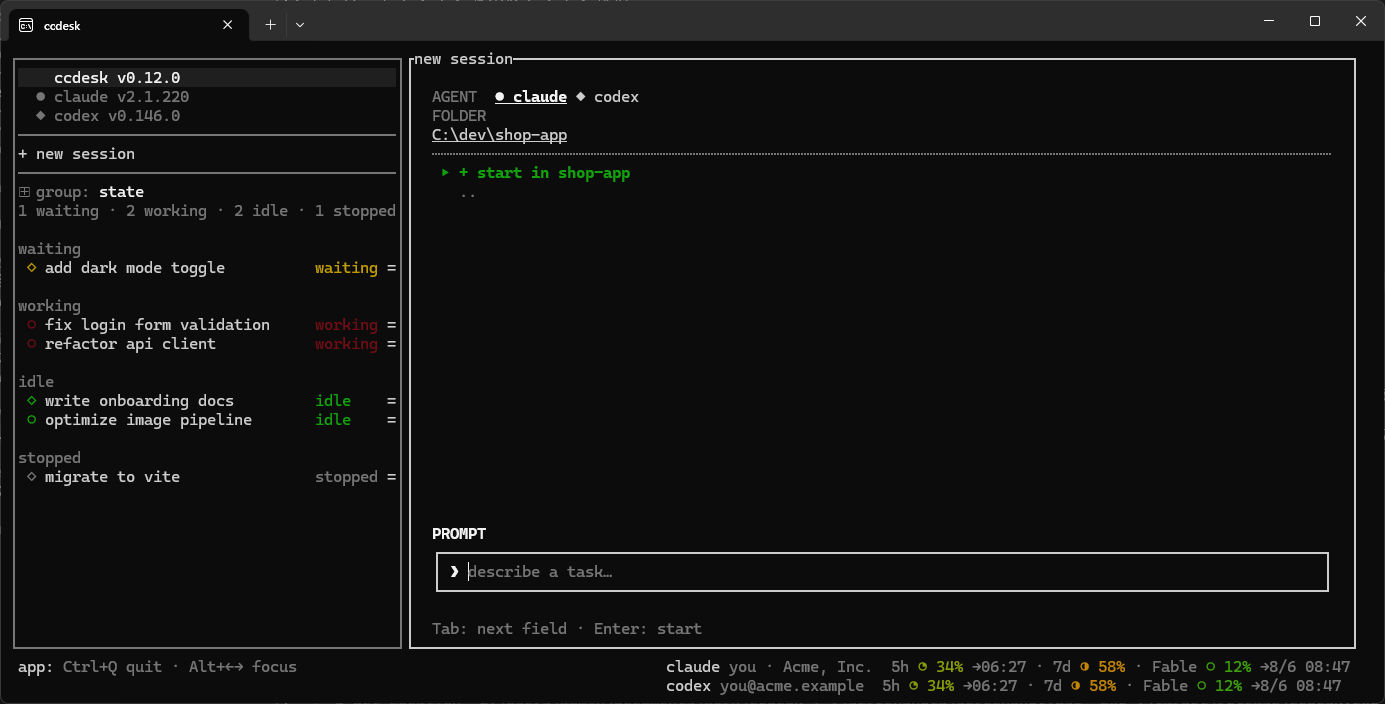
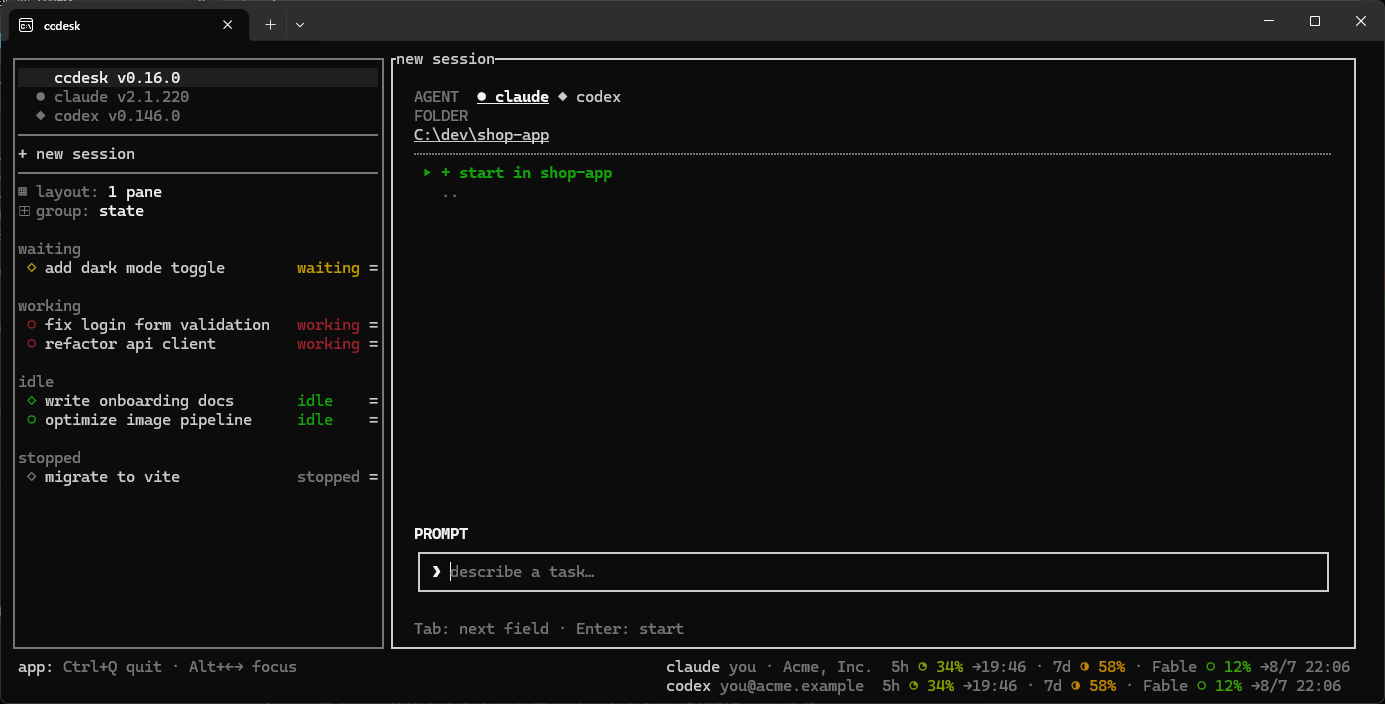
feat: サイドバーの状態別件数行を撤去
件数は節の見出しの下に並ぶ行そのもので見えており、ヘッダーに同じ知識を
もう 1 本置くと幅を食うだけだった。撮影用サイドバー幅の下限も集計行から
セッション行の側へ戻る（44 → 42 桁）。

diff --git a/src/ui/mod.rs b/src/ui/mod.rs
@@ -1455,14 +1455,8 @@ pub(crate) fn draw(frame: &mut Frame, app: &mut App) -> FrameCursor {
             pinned: row.pinned,
         });
     }
-    // 集計は表示行そのものから数える（分岐の複製をしない = 行数と必ず一致）。
-    // **節と同じ [`State::ORDER`] を回す**ので、並びと語が集計行とずれない
-    let counts: Vec<(State, usize)> = State::ORDER
-        .iter()
-        .map(|group| (*group, data.iter().filter(|d| d.group == *group).count()))
-        .collect();
     // 何か動いているか（run ループがアイドル時の描き直し間隔を選ぶ材料。
-    // [`crate::app::App::animating`]）。材料は 2 つ: 明滅する行（集計と同じ表示行から
+    // [`crate::app::App::animating`]）。材料は 2 つ: 明滅する行（表示行そのものから
     // 導く。[`State::blinks`]）と、使用率の取得中スピナー
     app.animating = data.iter().any(|d| d.group.blinks())
         || app
@@ -1557,27 +1551,9 @@ pub(crate) fn draw(frame: &mut Frame, app: &mut App) -> FrameCursor {
         Style::default().fg(ui().dim),
         SidebarRow::Action(RowAction::ToggleGroup),
     );
-    // 集計行。**語は [`State::title`] をそのまま出す**（唯一の綴り）ので、
-    // 見出し・行ラベル・集計で別の語が出ることがない。綴りが小文字になった今、
-    // ここで大小を変換する必要は無くなった（変換が残っていると「同じ語の 2 つ目の姿」を
-    // この行だけが持ち続けることになる）。
+    // **状態ごとの件数は出さない。** 数は節の見出しの下に並ぶ行そのもので見えており、
+    // 同じ知識をヘッダーにもう 1 本置くと幅を食うだけだった。
     //
-    // **0 件の項目は出さない。** 語が 4 つになって行が長くなったので、
-    // `0 stopped` のような情報を持たない項目で幅を使わない（1 本も無ければ空行）
-    push_row(
-        &mut items,
-        &mut rows,
-        Line::from(
-            counts
-                .iter()
-                .filter(|(_, n)| *n > 0)
-                .map(|(group, n)| format!("{n} {}", group.title()))
-                .collect::<Vec<_>>()
-                .join(" · "),
-        ),
-        Style::default().fg(ui().dim),
-        SidebarRow::Decoration,
-    );
     // ここまでが固定ヘッダー。積んだ数をそのまま正本にする
     // （ヒットテストとスクロール計算が読む。定数と二重管理にしない）
     let header_n = rows.len();
@@ -3457,9 +3433,6 @@ pub(crate) mod tests {
             !screen.iter().any(|t| t.contains("hidden")),
             "the codex session row is still listed: {screen:?}"
         );
-        let texts = sidebar_texts(&mut app);
-        // 集計もその 1 本だけ（隠した行が数に残らない）
-        assert_eq!(summary_row(&texts), "1 stopped", "the hidden row was still counted");
         // 下部バーは agent 1 行ぶん ＝ 空行がペインを削らない
         assert_eq!(bottom_bar_rows(&app), 1);
         // **行は消えていない**（`sessions.json` は触らない ＝ on に戻せば戻る）
@@ -3569,20 +3542,6 @@ pub(crate) mod tests {
         render_sidebar(app).into_iter().map(|(_, t)| t).collect()
     }
 
-    /// 集計行を探す。**語で探さない**（語を変えるたびにテストを直す形にしない）:
-    /// 集計行は「数字 + 空白 + 語」で始まる唯一の行
-    fn summary_row(texts: &[String]) -> String {
-        texts
-            .iter()
-            .find(|t| {
-                let mut chars = t.chars();
-                chars.next().is_some_and(|c| c.is_ascii_digit())
-                    && chars.next() == Some(' ')
-            })
-            .expect("the summary row is missing")
-            .clone()
-    }
-
     /// **行の並びは「名前 → 状態語 → メニュー記号」。**
     ///
     /// **agent は行末に居ない**（ドットの形が答えるので綴りで桁を食わない）。
@@ -3679,7 +3638,7 @@ pub(crate) mod tests {
         }
     }
 
-    /// **止めた行は `Stopped`（行末の語も集計も Stopped）。**
+    /// **止めた行は `Stopped`（行末の語も Stopped）。**
     ///
     /// 実機では `stop` の直後に一瞬 `Stopped` になってから `Needs input` へ戻っていた
     /// （保管に残った停止前の hook が載り直していた）。**残骸の hook を持っていても**
@@ -3714,13 +3673,6 @@ pub(crate) mod tests {
         // 既読なのでドットは抜き（塗りのままでは未読の入力待ちと見紛う）
         assert!(line.starts_with(&format!("{CLOSED_MARK}{DOT_HOLLOW}")), "{line:?}");
         assert_eq!(dot, ui().dim, "a dead row does not use the Stopped color");
-        // 集計もその 1 本を Stopped として数える（0 件の項目は出さない）
-        let texts = sidebar_texts(&mut app);
-        let counts = summary_row(&texts);
-        assert_eq!(
-            counts, "1 stopped",
-            "a stopped row was counted as something else"
-        );
     }
 
     /// **狭い端末はサイドバーを縮めて描くが、ユーザーが選んだ幅を忘れない。**
@@ -4226,32 +4178,14 @@ pub(crate) mod tests {
         }
     }
 
-    /// **集計は pin した行も数える。** pin は「隠す」操作ではなく「上へ寄せる」
-    /// 操作なので、数えないと一覧に見えている行と数が合わなくなる
-    #[test]
-    fn the_summary_counts_pinned_rows_too() {
-        let mut app = App {
-            // 集計行が切られない幅の端末（このテストの関心は数だけ）
-            term_size: (120, 40),
-            ..pinned_fixture(Grouping::State, true)
-        };
-        let texts = sidebar_texts(&mut app);
-        assert_eq!(
-            summary_row(&texts),
-            "3 stopped",
-            "the pinned row was not counted"
-        );
-    }
-
     /// **一覧に隠し区画は無い。** アーカイブを廃止したので、行はどちらの
-    /// グルーピングでも通常の一覧に出て集計にも数えられる（`close` が外すのは
-    /// 行だけなので、アーカイブとの差は「戻す導線があるか」しか残らず、
+    /// グルーピングでも通常の一覧に出る（`close` が外すのは行だけなので、
+    /// アーカイブとの差は「戻す導線があるか」しか残らず、
     /// 節を 1 つ増やす価値が無かった）
     #[test]
-    fn every_row_stays_in_the_normal_list_and_is_counted() {
+    fn every_row_stays_in_the_normal_list() {
         for grouping in [Grouping::State, Grouping::Directory] {
             let mut app = App {
-                // 集計行が切られない幅の端末（このテストの関心は行数と集計の一致）
                 term_size: (120, 40),
                 sidebar_width: 34,
                 grouping,
@@ -4273,12 +4207,6 @@ pub(crate) mod tests {
                     "{grouping:?}: {row} is missing from the list: {texts:?}"
                 );
             }
-            // 集計は一覧に出る行を全部数える（隠す行が無いので数と行数が一致する）
-            let counts = summary_row(&texts);
-            assert_eq!(
-                counts, "2 stopped",
-                "{grouping:?}: not every row is counted"
-            );
         }
     }
 

diff --git a/src/source.rs b/src/source.rs
@@ -46,24 +46,19 @@ const DEFAULT_SIDEBAR_WIDTH: u16 = 34;
 /// 幅が変わると同じ画像が撮れない。実測で 26 桁の保存値が拾われ、
 /// セッション名が全部切れた画像になっていた）。
 ///
-/// 内側（枠の中）に収めたいものは 2 つ。桁数は文字数ではなくセルの表示幅で数える
-/// （区切りの記号は 1 文字が 1 桁とは限らない）:
-///
-/// 1. セッション行。名前に使える桁は [`crate::ui::name_cols`] が答える
-///    （行頭・行末のメニュー・行末ブロックを引いた残り）。**手で数え直さない**ので、
-///    行の桁割りが変わればこの幅の検査も一緒に動く。[`demo_rows`] の最長は
-///    "fix login form validation"(25)
-/// 2. 集計行 `1 waiting · 2 working · 2 idle · 1 stopped` ＝ 42 桁。
-///    語の途中で切れると画像が壊れて見える
+/// 内側（枠の中）に収めたいものはセッション行 1 つ。桁数は文字数ではなくセルの
+/// 表示幅で数える（区切りの記号は 1 文字が 1 桁とは限らない）。名前に使える桁は
+/// [`crate::ui::name_cols`] が答える（行頭・行末のメニュー・行末ブロックを引いた
+/// 残り）。**手で数え直さない**ので、行の桁割りが変わればこの幅の検査も一緒に動く。
+/// [`demo_rows`] の最長は "fix login form validation"(25)。
 ///
 /// 名前が切れた画像は README の売り（行の名前が agent と一致する）を裏切るので、
-/// どちらも切らない幅を採る。右ペインを削らないようこれ以上は広げない。
-/// **今の下限は 2 の方**: agent の綴りが行末から消えて（形が答えるようになって）
-/// 名前の予算が 7 桁戻ったので、行より集計行の方が長くなった。
-/// **実データではこの幅を要求しない**（集計行は 0 件の項目を出さないので、
-/// 4 種すべてが揃っている撮影データが最も長い）。
+/// 切らない幅を採る。右ペインを削らないようこれ以上は広げない
+/// （状態ごとの件数を出すヘッダー行を撤去したので、下限は行の側だけになった）。
+/// **ちょうど収まる幅より 2 桁広い**: 最長の名前が行末の状態語と隙間なく
+/// 接すると、画像では 1 語に見えてしまう。
 /// 根拠は `demo_sidebar_width_fits_the_sidebar_rows` が固定する
-const DEMO_SIDEBAR_WIDTH: u16 = 44;
+const DEMO_SIDEBAR_WIDTH: u16 = 42;
 
 /// 撮影用の new session 画面の初期フォルダ（実フォルダを出さない）
 const DEMO_CWD: &str = "C:\\dev\\shop-app";
@@ -1219,23 +1214,13 @@ mod tests {
     fn demo_sidebar_width_fits_the_sidebar_rows() {
         use unicode_width::UnicodeWidthStr;
 
-        // 集計ヘッダー行（ui::draw が組む文面）。demo データではこの 1 通りに定まる
-        const DEMO_HEADER: &str = "1 waiting · 2 working · 2 idle · 1 stopped";
-
         let inner = usize::from(DEMO_SIDEBAR_WIDTH - 2);
         // 名前に使える桁は**描画と同じ導出**（[`crate::ui::name_cols`]）から取る。
         // 行頭とメニューだけを手で引いていた頃は、行末に状態語と agent を足しても
         // この検査が気づかず、名前が切れた画像が README に残った
         let name_cols = crate::ui::name_cols(inner as u16);
-        let mut widest = DEMO_HEADER.width();
-        let mut counts = std::collections::BTreeMap::<&str, usize>::new();
-        for (_, title, state) in demo_rows() {
-            // 固定 state を持つ行は「動いている実行がある」扱い（[`crate::ui`] の導出と同じ）
-            let view = match state {
-                Some(state) => state,
-                None => crate::poll::State::Stopped,
-            };
-            *counts.entry(view.title()).or_default() += 1;
+        let mut widest = 0;
+        for (_, title, _) in demo_rows() {
             assert!(
                 title.width() <= name_cols,
                 "{title:?} is {} cols but the name budget is {name_cols}",
@@ -1243,22 +1228,6 @@ mod tests {
             );
             widest = widest.max(inner - name_cols + title.width());
         }
-        // ヘッダー行の文面（= 上の DEMO_HEADER）が demo データと合っていること。
-        // **語も件数もここで固定する**（撮影データと集計行がずれない）
-        assert_eq!(
-            counts,
-            std::collections::BTreeMap::from([
-                (crate::poll::State::Waiting.title(), 1),
-                (crate::poll::State::Working.title(), 2),
-                (crate::poll::State::Idle.title(), 2),
-                (crate::poll::State::Stopped.title(), 1),
-            ])
-        );
-        assert!(
-            DEMO_HEADER.width() <= inner,
-            "summary header row gets truncated ({} cols / inner {inner} cols)",
-            DEMO_HEADER.width()
-        );
         // 右ペインを削らないよう、必要以上に広げない（余りは 2 桁まで）
         assert!(
             inner - widest <= 2,

diff --git a/src/poll.rs b/src/poll.rs
@@ -682,7 +682,7 @@ impl Grouping {
 /// - **保存と CLI 引数**（[`Self::as_str`] / [`Self::parse`]）: hook は
 ///   `ccdesk hook <event> <state>` として飛び、`hook-states.json` に文字列で残る
 /// - **画面**（[`Self::title`] / [`Self::color`] / [`Self::blinks`]）: 行のドット・
-///   節の見出し・集計が同じここを読む
+///   節の見出しが同じここを読む
 /// - **並び**（[`Self::ORDER`] と [`Ord`]）: 上ほどユーザーがすることがある
 ///
 /// **表示用の型を別に持たない。** かつては `State`（hook の語彙）と `State`（節）が
@@ -717,7 +717,7 @@ pub(crate) enum State {
 }
 
 impl State {
-    /// 表示順（節の並びと集計の並び）＝ [`Ord`] と同じ順。
+    /// 表示順（節の並び）＝ [`Ord`] と同じ順。
     /// **[`Self::parse`] もこれを舐める**ので、語を足したら綴りも並びも同時に効く
     pub(crate) const ORDER: [Self; 4] = [Self::Waiting, Self::Working, Self::Idle, Self::Stopped];
 
@@ -738,10 +738,10 @@ impl State {
         Self::ORDER.into_iter().find(|state| state.as_str() == text)
     }
 
-    /// **この 4 語が画面に出る唯一の綴り**（行ラベル・節の見出し・集計）。
+    /// **この 4 語が画面に出る唯一の綴り**（行ラベル・節の見出し）。
     ///
-    /// **小文字なのは、出る 3 箇所を 1 つの綴りで賄うため。** かつては大文字始まりで
-    /// 持ち、集計行だけが `to_lowercase` を掛けていた ＝ 同じ語が 2 つの姿を持っていた。
+    /// **小文字なのは、出る箇所を 1 つの綴りで賄うため。** かつては大文字始まりで
+    /// 持ち、一部だけが `to_lowercase` を掛けていた ＝ 同じ語が 2 つの姿を持っていた。
     /// ピン留めの節（[`crate::ui::PINNED_TITLE`]）が元から小文字なので、
     /// 揃える先は小文字側になる。
     ///
@@ -759,14 +759,14 @@ impl State {
     /// 全状態の収まりを見る
     pub(crate) const TITLE_COLS: usize = 7;
 
-    /// この状態の色。**行のドット・行末の状態語・集計・節が同じこの 1 箇所を読む**
+    /// この状態の色。**行のドット・行末の状態語・節が同じこの 1 箇所を読む**
     /// ので、状態を増やしたときに色の対応を書き忘れる場所が増えない
     /// （以前は `StateView.color` が別に持っていて、食い違う値を作れてしまっていた）
     pub(crate) fn color(self) -> Color {
         match self {
             Self::Waiting => ui().attention,
             // 明滅する行のドットと語は [`crate::theme::UiTheme::blink`] のコマを引く。
-            // ここが返すのはコマ列の一番明るい側 ＝ 節の見出しや集計が代表色として使う
+            // ここが返すのはコマ列の一番明るい側 ＝ 節の見出しが代表色として使う
             Self::Working => ui().working,
             Self::Idle => ui().ok,
             Self::Stopped => ui().dim,

diff --git a/src/app.rs b/src/app.rs
@@ -86,7 +86,7 @@ pub(crate) enum RowAction {
 /// キーボードの選択・マウスのホバー・描画のハイライトが同じ答えを読む
 #[derive(Clone, PartialEq, Debug)]
 pub(crate) enum SidebarRow {
-    /// 区切り線・空行・グループ見出し・集計行 ＝ 画面を組む飾りで、行の実体が無い。
+    /// 区切り線・空行・グループ見出し ＝ 画面を組む飾りで、行の実体が無い。
     /// 選択もホバーもしない
     Decoration,
     /// 実体はある行だが、今は押しても何も起きない（更新の無い版行）。
@@ -441,8 +441,8 @@ pub(crate) struct App {
     pub(crate) term_size: (u16, u16), // (width, height)
     // サイドバーに積まれた行（draw で構築）。飾りと押せない行の区別は [`SidebarRow`]
     pub(crate) sidebar_rows: Vec<SidebarRow>,
-    // サイドバー上部の固定行数（版行・区切り線・+ new session・⊞ group・▦ layout・
-    // 集計行など）。**行の一覧をここに書き写さない**（足すたびに黙って古くなる）:
+    // サイドバー上部の固定行数（版行・区切り線・+ new session・⊞ group・▦ layout
+    // など）。**行の一覧をここに書き写さない**（足すたびに黙って古くなる）:
     // 正本は draw が積んだ行数そのもので、ヒットテストとスクロール計算は
     // sidebar_rows と同じく「最後に描いた値」を読む
     pub(crate) sidebar_header_rows: usize,
@@ -3703,7 +3703,7 @@ mod tests {
 
     /// **サイドバーに出る行の種類が 1 フレームで全部そろう `App`。**
     /// 版行（更新あり = ccdesk / 更新なし = claude）・区切り線・`+ new session`・
-    /// `⊞ group`・集計行・プロジェクト見出し・セッション行が積まれ、
+    /// `⊞ group`・プロジェクト見出し・セッション行が積まれ、
     /// フッターのアカウント行も描かれる。
     ///
     /// 行の一覧は**描画が積んだ結果**を読む（種類を書き写した表を持たない）
